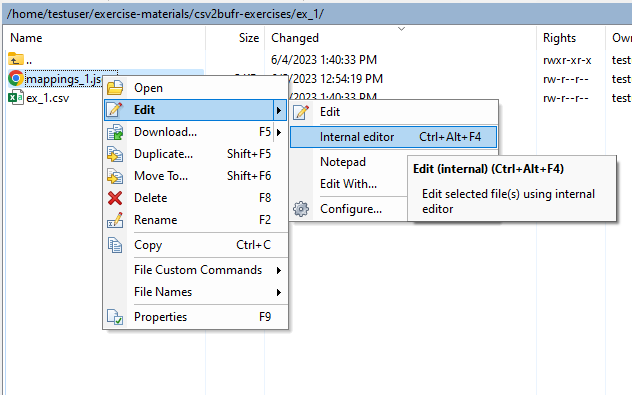
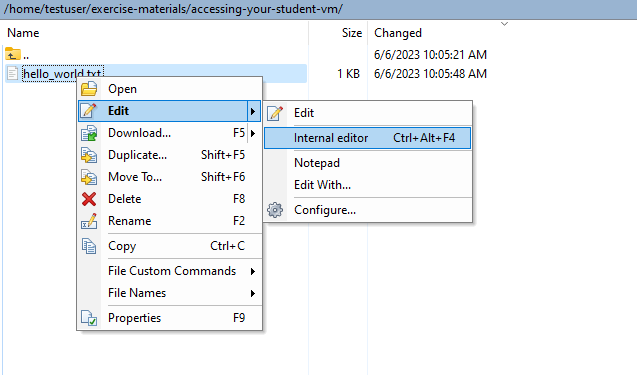
updates based on feedback 6-6

Changed region(s): [[0.0, 0.0, 1.0, 1.0], [0.8418, 0.1467, 0.932, 0.2053], [0.8418, 0.2347, 0.932, 0.264]]

diff --git a/exercise-materials/create-station-list/oscar2wis2box.py b/exercise-materials/create-station-list/oscar2wis2box.py
@@ -1,0 +1,50 @@
+import os,sys
+
+import logging
+logging.basicConfig(level=logging.ERROR)
+logging.getLogger("oscar_lib.oscar_client").setLevel(logging.ERROR)
+logging.getLogger("oscar_lib.station").setLevel(logging.ERROR)
+
+
+#from dotenv import load_dotenv
+from oscar_lib import OscarClient, extractSchedules, Station, OscarGUIClient
+from oscar_lib import OscarInterfaceDummy
+
+region_map = {
+    "africa":"I",
+    "asia":"II",
+    "southAmerica":"III",
+    "northCentralAmericaCaribbean":"IV",
+    "southWestPacific":"V",
+    "europe":"VI",
+    "south america":"III",
+    "north america, central america and the caribbean":"IV",
+    "south-west pacific":"V"
+}
+
+if len(sys.argv) != 2 or len(sys.argv[1].split("-")) != 4:
+    print("pass WIGOS ID as parameter")
+    sys.exit(1)
+
+wsi = sys.argv[1]
+
+client = OscarClient()
+#stations = client.oscar_search(params={"territoryName":"KEN"})
+stations = client.oscar_search(params={"wigosId":wsi})
+
+for station in stations["data"]["stationSearchResults"]:
+  
+    station["WMOIndex"] = ""
+    
+    for wsi in station["wigosStationIdentifiers"]:
+        if "0-2000" in wsi["wigosStationIdentifier"]:
+            station["WMOIndex"] = wsi["wigosStationIdentifier"].split("-")[3]
+     
+    station["region"] = region_map[station["region"].lower()]
+     
+    keys = ["name","wigosId","WMOIndex","stationTypeName","latitude","longitude","elevation","territory","region"]
+
+    # Keetmanshoop Airport,0-20000-0-68312,68321,Land (fixed),-26.53333,18.1166666,1064,Namibia,I
+    line = ",".join( [ (str(station[k]) if k in station else "") for k in keys]) 
+ 
+    print(line)

diff --git a/documentation/docs/practical-sessions/wis2box-introduction.md b/documentation/docs/practical-sessions/wis2box-introduction.md
@@ -1,8 +1,8 @@
 ---
-title: wis2box services introduction
+title: wis2box introduction
 ---
 
-#  wis2box services introduction
+#  wis2box introduction
 
 ## Introduction
 
@@ -10,15 +10,23 @@ In this session you will run the wis2box software that was pre-installed on your
 
 You will review and access the services provided by your wis2box: the MQTT broker and HTTP accessible services and view how the services work when manually ingesting some test-data.
 
+!!! note "wis2box installation and configuration"
+    The latest wis2box release has been pre-installed on your student VM using the release archive available on GitHub:
+
+    ```bash
+    wget https://github.com/wmo-im/wis2box/releases/download/1.0b3/wis2box-setup-1.0b3.zip
+    unzip wis2box-setup-1.0b3.zip
+    ```
+    
+    You can always find the latest 'wis2box-setup' archive at [https://github.com/wmo-im/wis2box/releases](https://github.com/wmo-im/wis2box/releases).
+
+    Your student VM has been pre-configured with a dataset for Malawi and includes some previously ingested data. Later during this training you will learn how to setup datasets of your own.
+
+    All the required steps for installation and configuration of the wis2box can be found in the [wis2box-documentation](https://docs.wis2box.wis.wmo.int/en/latest/)
+
 ## Preparation
 
 Login to your designated VM with your username and password.
-
-!!! note
-
-    The latest wis2box release has been pre-installed on your student VM using the release archive available on GitHub.
-    
-    You can always find the latest 'wis2box-setup' archive at [https://github.com/wmo-im/wis2box/releases](https://github.com/wmo-im/wis2box/releases).
 
 ## wis2box start and status
 
@@ -45,12 +53,12 @@ Repeat this command until all services are up and running.
 !!! question
     What services are running? Which ports are used for each service?
 
-!!! note
+!!! note "wis2box and docker"
     wis2box runs as a set of Docker containers managed by docker-compose.
     
     The services are defined in the various `docker-compose*.yml` which can be found in the `~/wis2box-1.0b3/` directory.
     
-    The script 'wis2box-ctl.py' is used to run the underlying Docker Compose commands that control the wis2box services.
+    The python-script 'wis2box-ctl.py' is used to run the underlying Docker Compose commands that control the wis2box services.
 
 ## wis2box UI
 

diff --git a/documentation/docs/practical-sessions/data-ingest-and-monitoring.md b/documentation/docs/practical-sessions/data-ingest-and-monitoring.md
@@ -14,7 +14,7 @@ In this session you will learn various ways to ingest data into your wis2box and
 
 Download the following file onto your local computer:
 
-[WIGOS_0-454-2-AWSBILIRA_2023-06-01T1055.csv](https://training.wis2box.wis.wmo.int/WIGOS_0-454-2-AWSBILIRA_2023-06-01T1055.csv) 
+[WIGOS_0-454-2-AWSBILIRA_2023-06-01T1055.csv](https://raw.githubusercontent.com/wmo-im/wis2box-training/main/WIGOS_0-454-2-AWSBILIRA_2023-06-01T1055.csv) 
 
 ### Verify data mappings
 
@@ -81,9 +81,9 @@ And then upload the file 'WIGOS_0-454-2-AWSBILIRA_2023-06-01T1055.csv' into the 
 !!! question "View the Grafana dashboard"
     Check the Grafana dashboard and find the error reported after uploading the file.
 
-Navigate the directory structure until you are in the folder 'wis2box-incoming/mwi/mwi_wmo_demo/data/core/weather/surface-based-observations/synop':
+Navigate the directory structure until you are in the folder 'wis2box-incoming/mwi/mwi_wmo_demo/data/core/weather/surface-based-observations/synop'
 
-Upload the file 'WIGOS_0-454-2-AWSBILIRA_2023-06-01T1055.csv' it to 'wis2box-incoming/mwi/mwi_wmo_demo/data/core/weather/surface-based-observations/synop'
+Upload the file 'WIGOS_0-454-2-AWSBILIRA_2023-06-01T1055.csv' to 'wis2box-incoming/mwi/mwi_wmo_demo/data/core/weather/surface-based-observations/synop'
 
 !!! question "View the Grafana dashboard"
     Check the Grafana dashboard; can you confirm the wis2box workflow was initiated after you uploaded your data? In case you see any errors, try to use the information provided in the dashboard to resolve the errors.
@@ -98,7 +98,7 @@ Upload the file 'WIGOS_0-454-2-AWSBILIRA_2023-06-01T1055.csv' it to 'wis2box-inc
     corresponds to the path:
     `mwi/mwi_wmo_demo/data/core/weather/surface-based-observations/synop`.
 
-    If there are no data-mappings defined for the topic-hiearachy corresponding to the directory that received data, wis2box will not initiate the workflow.
+    If there are no data-mappings defined for the topic-hierarchy corresponding to the directory that received data, wis2box will not initiate the workflow.
 
 ### wis2box FTP
 

diff --git a/documentation/docs/practical-sessions/accessing-your-student-vm.md b/documentation/docs/practical-sessions/accessing-your-student-vm.md
@@ -135,15 +135,25 @@ To access the material on your local machine rather than from the command line, 
 
 <img alt="winscp-student-vm-scp.png" src="../../assets/img/winscp-student-vm-scp.png" width="400">
 
-And you should be able to access the exercise-materials:
+And you should be able to see the following content:
 
 <img alt="winscp-student-vm-exercise-materials.png" src="../../assets/img/winscp-student-vm-exercise-materials.png" width="600">
 
-During the exercises you will be asked to edit files. It's up to you if you prefer to edit files from the command-line in the SSH-client-windows (using vi/vim/nano/exams) or using WinSCP.
+## Exercise 1: Editing files on your Student VM
 
-If you prefer to edit files using WinSCP, you can right-click on a file and select 'edit'->'Edit (internal)' to use WinSCP's internal file-editor:
+Connect to your Student VM using WinSCP and browse into the directory: **exercise-materials/accessing-your-student-vm/**
+
+Right-click on the file **hello_world.txt** and select **edit->internal editor**.  Edit this file by adding a message of your own and save your changes.
 
 <img alt="winscp_internal_editor.png" src="../../assets/img/winscp_internal_editor.png" width="600">
+
+From within your SSH-client check the content of the file ~/exercise-materials/accessing-your-student-vm/hello_world.txt ":
+```bash
+cat ~/exercise-materials/accessing-your-student-vm/hello_world.txt
+```
+And confirm you see the changes you made in the file.
+
+During the exercises you will be asked to edit files. It's up to you if you prefer to edit files from the command-line in the SSH-client-windows (using vi/vim/nano/exams) or using WinSCP.
 
 ## Conclusion
 
